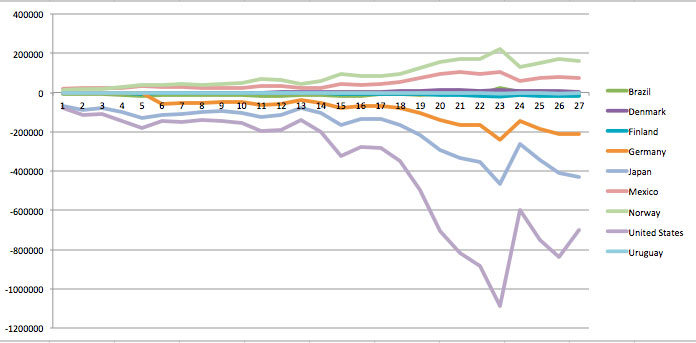
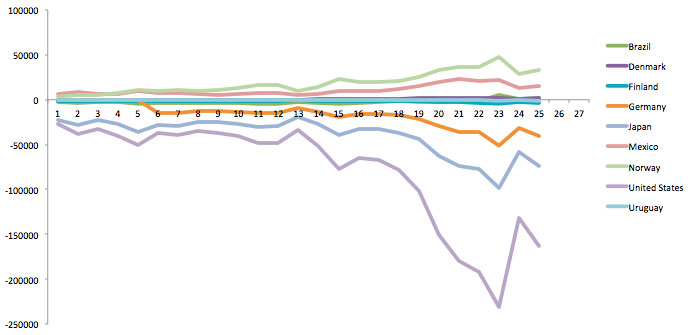
some more changes

Changed region(s): [[0.0, 0.0, 1.0, 1.0], [0.8788, 0.1791, 0.9697, 0.209], [0.8788, 0.1194, 0.9394, 0.1493]]

diff --git a/index.html b/index.html
@@ -63,23 +63,17 @@ function ready(error, mexico) {
 
 <p>In 1979, then President Jose Lopez Portillo (1976 - 1982) announced to the world that Mexico had begun exploiting 'Cantarell', the world's third largest oil field at the time (just behind the Ghawar and Burgan fields of Saudi Arabia and Kuwait). This bounty came with promises of jobs, technological development, commitment to industrialization, and sustainable city-building. Above all, Lopez Portillo (and his team of experts) stressed that this windfall of wealth would be reinvested in Mexico to guarantee a future 'beyond Oil'.</p>
     
-<p class = "styling"> It took 24 years for Cantarell to reach 'peak oil' status. This means that in 2004 Mexico's largest oil field had reached its maximum rate of petroleum extraction, after which it entered a state of terminal decline. Like the graphs below depict, Mexico has experienced a 'net surplus' of oil since the 1980's meaning that it has produced more oil than it consumes, although this has been decreasing over time. The US and Norway 'peaked' in 1970 and 2001 respectively, and Brazil has become a net exporter of oil since 2009. Brazil's success, however, has been led by a stubborn decisiveness to dramatically reduce oil consumption, a strong emphasis on research and development, and a focus on non-fossil fuels alternatives for national consumption. Since 2003 it followed an aggressive ethanol blending policy - and today 80% of the cars in the country run on blended fuel. It's not oil that has put Brazil where it is today, its more about where Brazil has been putting its money - and how. </p><br></br>
+<p class = "styling"> It took 24 years for Cantarell to reach 'peak oil' status. This means that in 2004 Mexico's largest oil field had reached its maximum rate of petroleum extraction, after which it entered a state of terminal decline. Like the graphs below depict, Mexico has experienced a 'net surplus' of oil since the 1980's meaning that it has produced more oil than it consumes, although this has been decreasing over time. The US and Norway 'peaked' in 1970 and 2001 respectively, and Brazil has become a net exporter of oil since 2009. Brazil's success, however, has been led by a stubborn decisiveness to dramatically reduce oil consumption, a strong emphasis on research and development, and a focus on non-fossil fuels alternatives for national consumption. Since 2003 it followed an aggressive ethanol blending policy - and today 80% of the cars in the country run on blended fuel. It's not oil that has put Brazil where it is today, its more about where Brazil has been putting its money - and how. </p>
 
-        <div>
-          		<a><img src="img/consumption.gif"></a>	
-          		<a><img src="img/production.gif"></a>	
 
-      </div><br></br>
+
+<img src="img/production.jpg">
+
+
       
-     <p class = "styling"> Things are not so bad, though. If Mexico had saved its oil revenues derived from the net balance of the production and consumption of oil, it could today have amassed a massive wealth over 400 Quadrillion dollars, a number 400,000 times the current size of the Mexican economy. Its obvious that Mexico didn't save all this money, though. Like Lopez Portillo said, and the current PRI administration promises, oil revenues were spent on education, poverty alleviation, research and development and Mexico's future 'beyond oil'. Indeed Mexicans a share of their bounty through government expenditures on goods and services, cash benefits, and subsidies, but how does the future look like for Mexico? </p><br></br>
-     
-     <br></br>
+     <p class = "styling"> Things are not so bad, though. If Mexico had saved its oil revenues derived from the net balance of the production and consumption of oil, it could today have amassed a massive wealth of over 300 billion dollars. Its obvious that Mexico didn't save all this money, though. Like Lopez Portillo said, and the current PRI administration promises, oil revenues were spent on education, poverty alleviation, research and development, and Mexico's future 'beyond oil'. Indeed Mexicans had their fair share of the oil through government expenditures on goods and services, cash benefits, and subsidies, but how well did Mexico do?</p>
 
-     <div>
-       		<a><img src="img/netbalance.jpg"></a>	
-       		<a><img src="img/oilrevenues.jpg"></a>	
-
-   </div><br></br>
+       	<img src="img/oilrevenues.jpg">
    
         <p class = "styling"> Lets begin with poverty and inequality. s</p>
       
